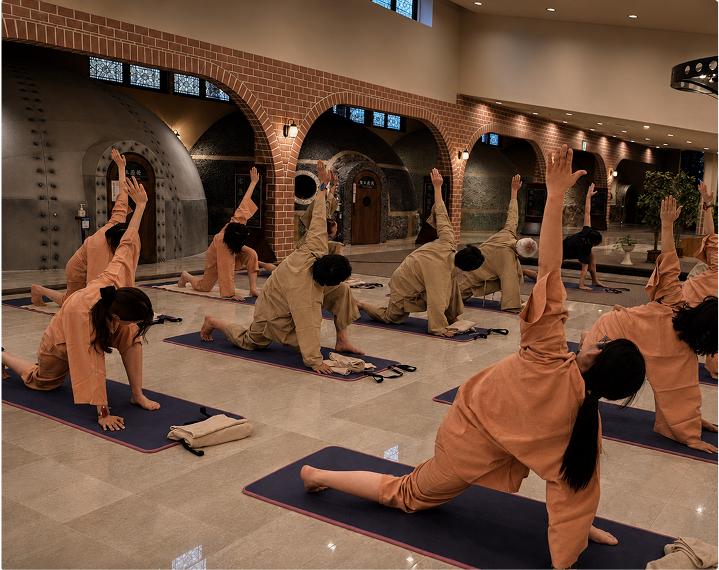
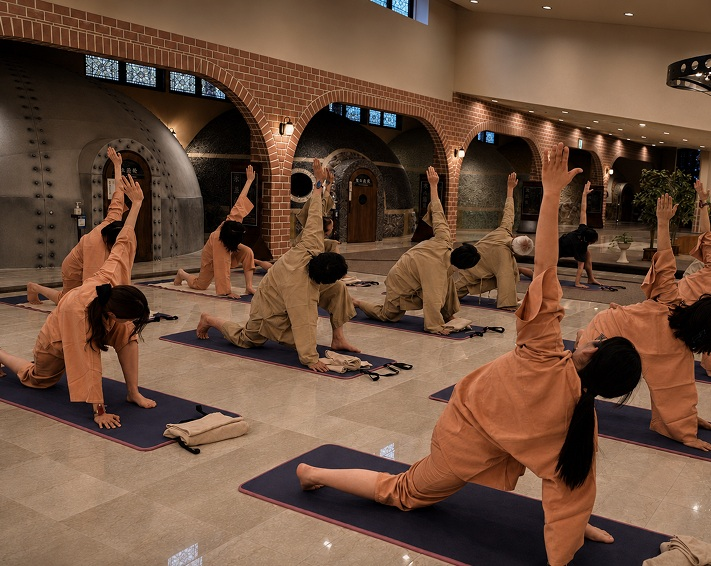
update image

diff --git a/wp-content/themes/ludoa/front-page.php b/wp-content/themes/ludoa/front-page.php
@@ -278,7 +278,7 @@ $img = get_template_directory_uri() . '/assets/images';
                 <figure><img src="<?php echo esc_url( $img ); ?>/learn-img-03.jpg" alt="瞑想" /><figcaption><span data-i18n="learn.s3">瞑想</span></figcaption></figure>
               </div>
               <div class="learn__slide">
-                <figure><img src="<?php echo esc_url( $img ); ?>/learn-img-03.jpg" alt="体力年齢測定" /><figcaption><span data-i18n="learn.s4">体力年齢測定</span></figcaption></figure>
+                <figure><img src="<?php echo esc_url( $img ); ?>/learn-img-04.jpg" alt="体力年齢測定" /><figcaption><span data-i18n="learn.s4">体力年齢測定</span></figcaption></figure>
               </div>
             </div>
 
